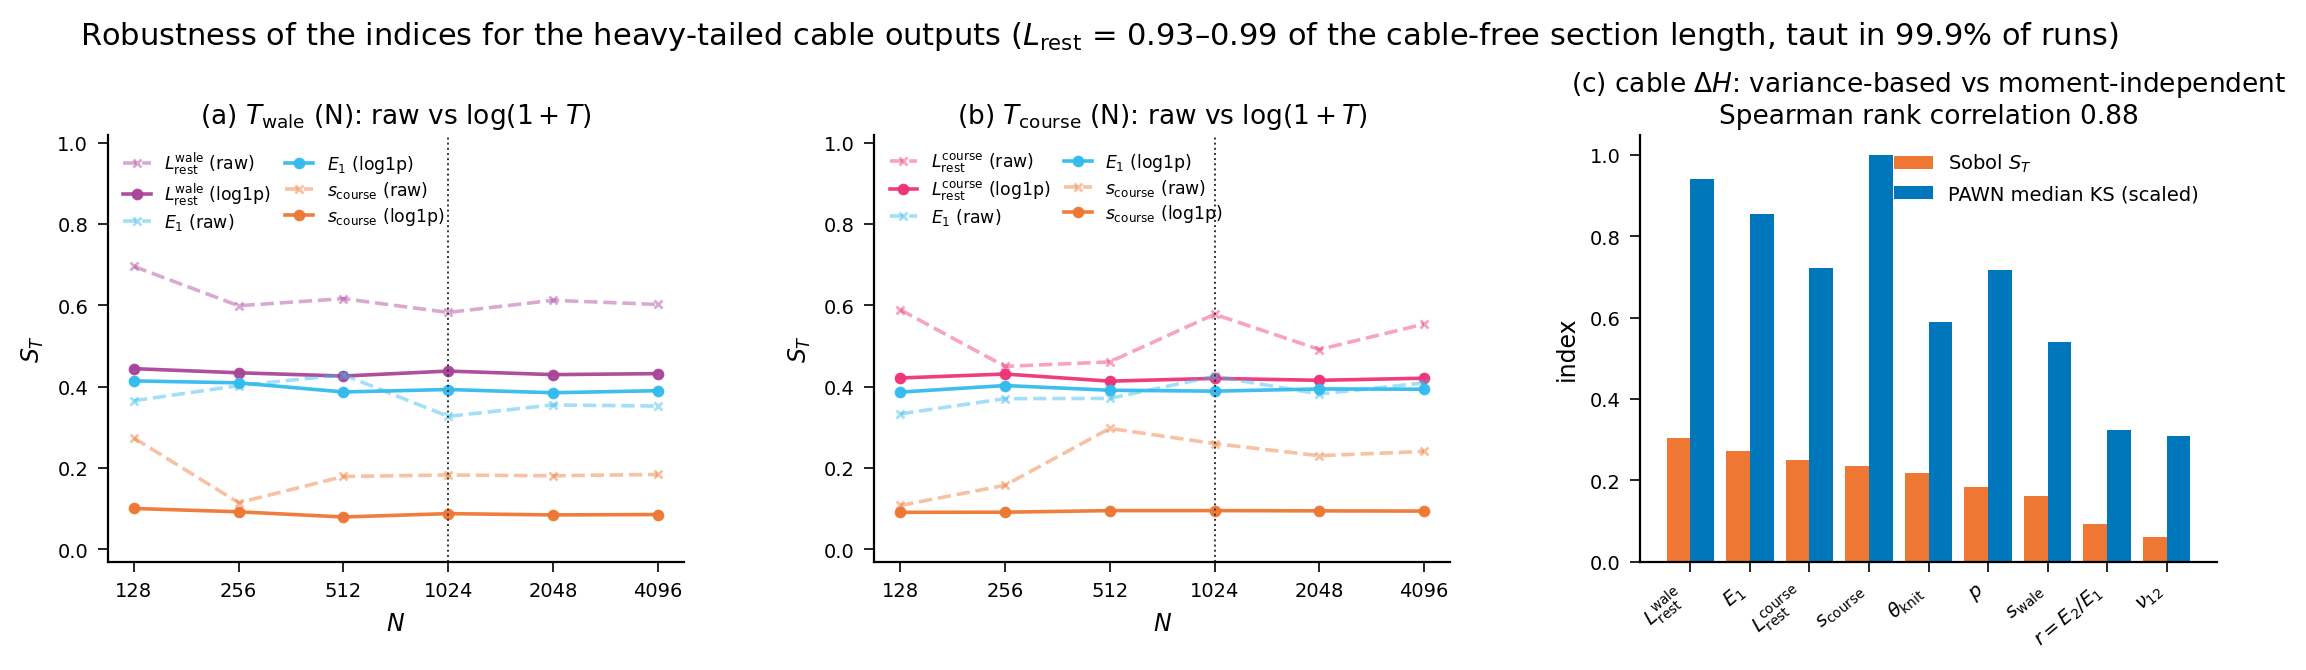
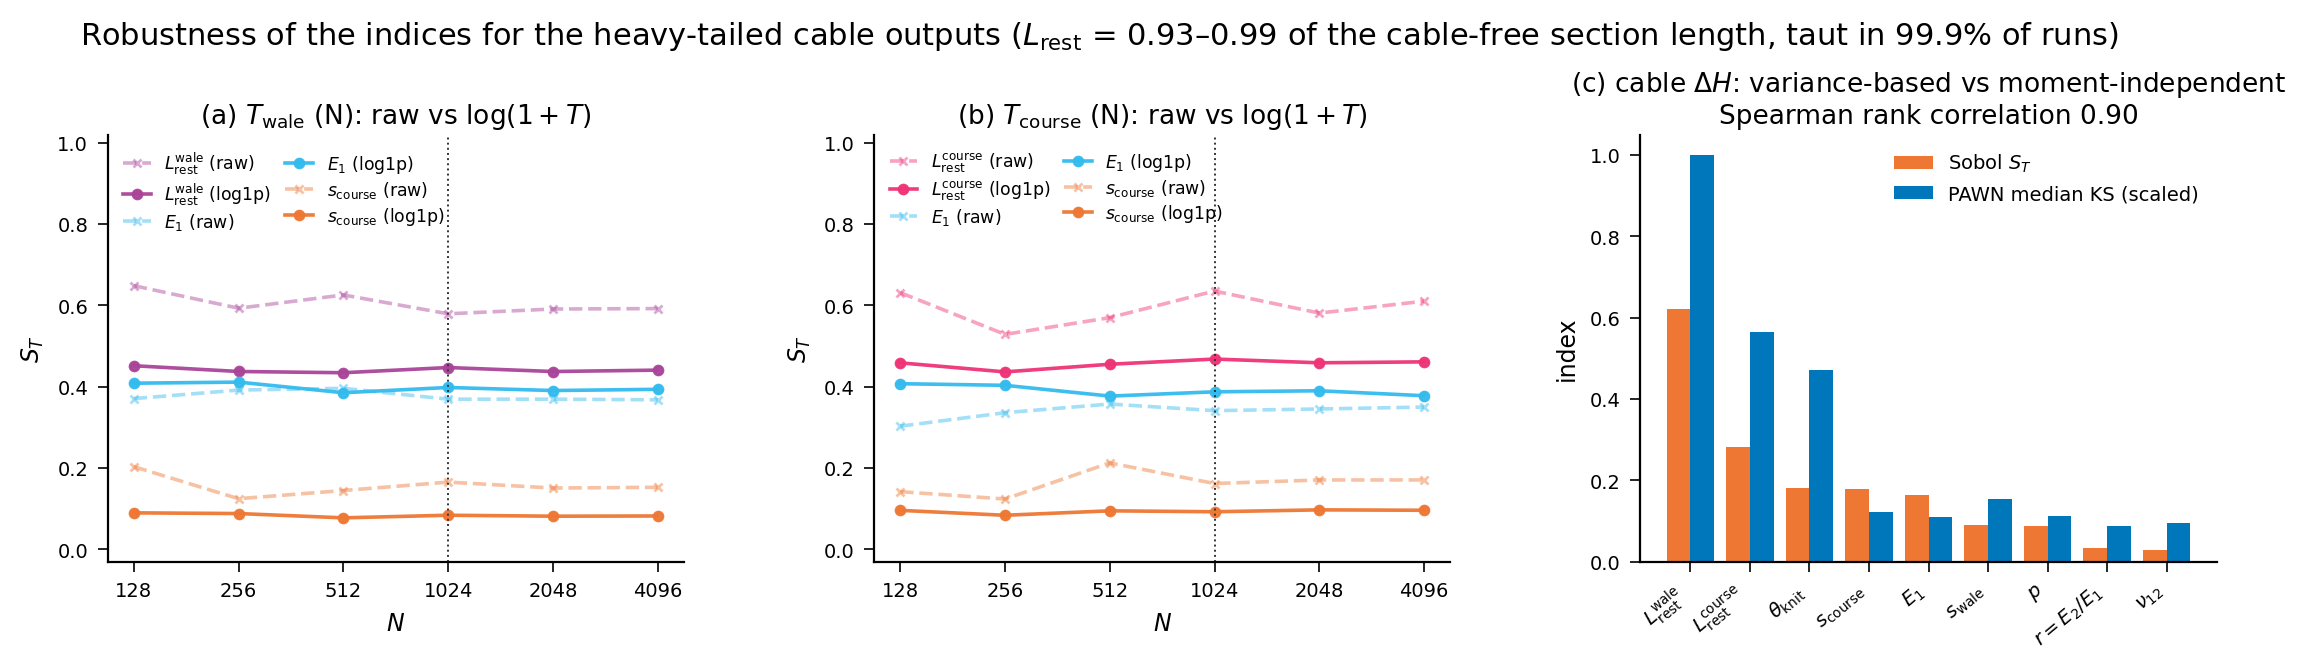
Rerun the robustness figure on the ARD surrogates; fix the engagement guard
The engagement indicator 1[T > 0] was guarded by engaged.std() > 0, on the
reasoning that a taut cable makes it constant and its indices 0/0.  That is too
weak: at N = 4096 the course indicator has 2 slack points in 45056, which passes
the test and then breaks SALib -- first_order() returns its CONST_RESULT array
once an A/B subset is constant, and assigning it into a scalar slot raises
"setting an array element with a sequence".  Require both classes to carry at
least 1% of the sample instead.  The wale indicator is now exactly constant
(0 of 45056) and the course one 2 of 45056, so neither is analysed.

PAWN agrees with the variance-based ranking on the refitted surrogates:
Spearman 1.00 for no-cable Delta H, 0.90 for cable Delta H (figX panel c) and
0.95 for the course tension.  Tension index drift beyond N = 1024 is now 0.013
and 0.025 raw, 0.006 and 0.010 on log1p -- the tensions converge faster than any
other output, having been the slowest before the L_rest reparameterisation.

diff --git a/sensitivity_analysis/run_sobol_robust.py b/sensitivity_analysis/run_sobol_robust.py
@@ -134,7 +134,15 @@ def tension_indices(group="material_r_cable"):
             # everywhere, so the indicator is constant and its Sobol indices are
             # 0/0.  That is the answer, not a failure — skip it rather than
             # writing a table of NaN.
-            if engaged.std() > 0:
+            #
+            # std > 0 is too weak a test: at N = 4096 the course indicator has 2
+            # slack points in 45056, which passes it and then breaks SALib, whose
+            # first_order() returns the CONST_RESULT array once an A/B subset is
+            # constant ("ValueError: setting an array element with a sequence").
+            # Require both classes to carry at least 1% of the sample, which is
+            # the point below which the indices are noise anyway.
+            engaged_frac = float(engaged.mean())
+            if min(engaged_frac, 1.0 - engaged_frac) >= 0.01:
                 scales.append(("engaged", engaged))
             for lab, Y in scales:
                 si = sobol_analyze.analyze(prob, Y, calc_second_order=False,
